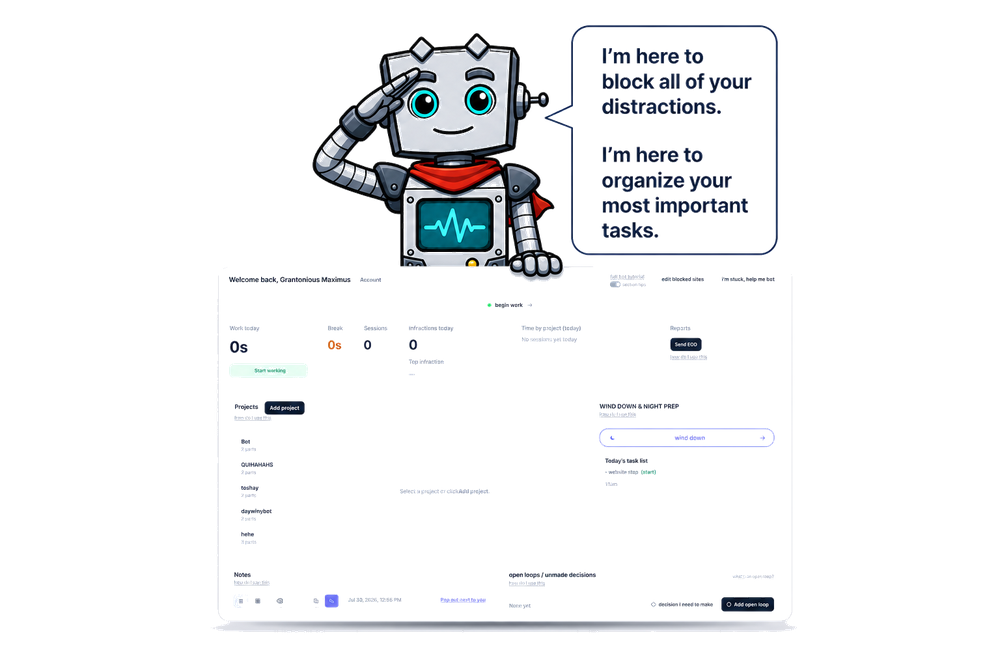
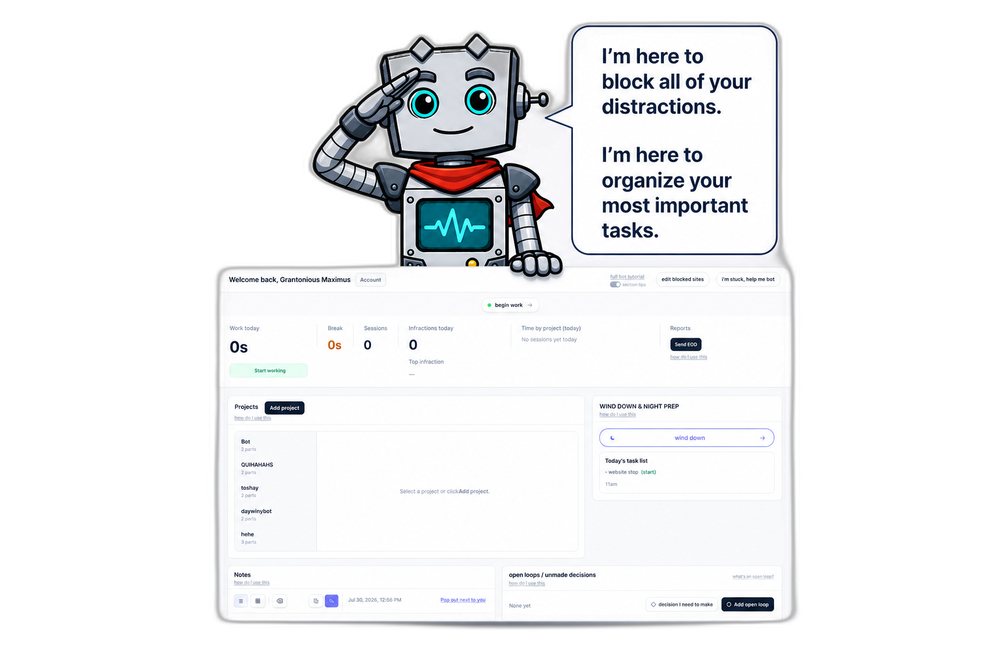
Restore intro image size; true transparent hero PNG.

diff --git a/components/marketing/LandingPage.tsx b/components/marketing/LandingPage.tsx
@@ -87,7 +87,7 @@ export default function LandingPage() {
             alt="Daywinner bot presenting the productivity dashboard"
             width={1000}
             height={667}
-            className="mb-5 h-auto w-full max-w-[440px] sm:max-w-[560px]"
+            className="mb-5 h-auto w-full max-w-[340px] sm:max-w-[420px]"
             unoptimized
             priority
           />
